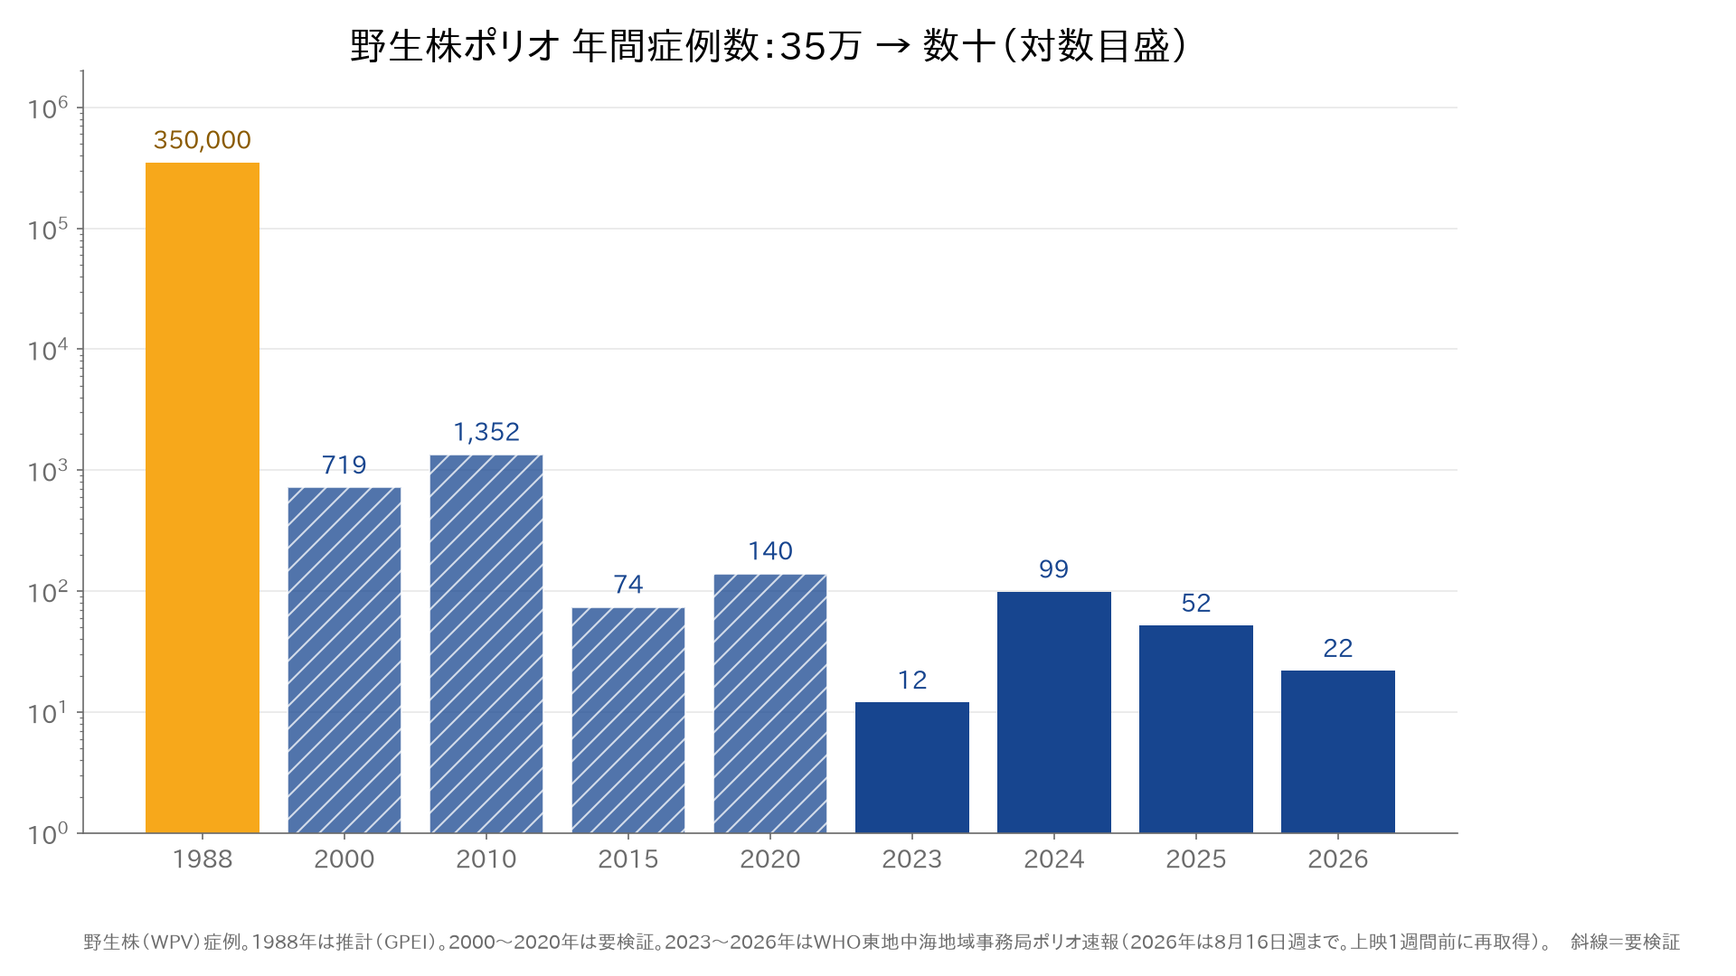
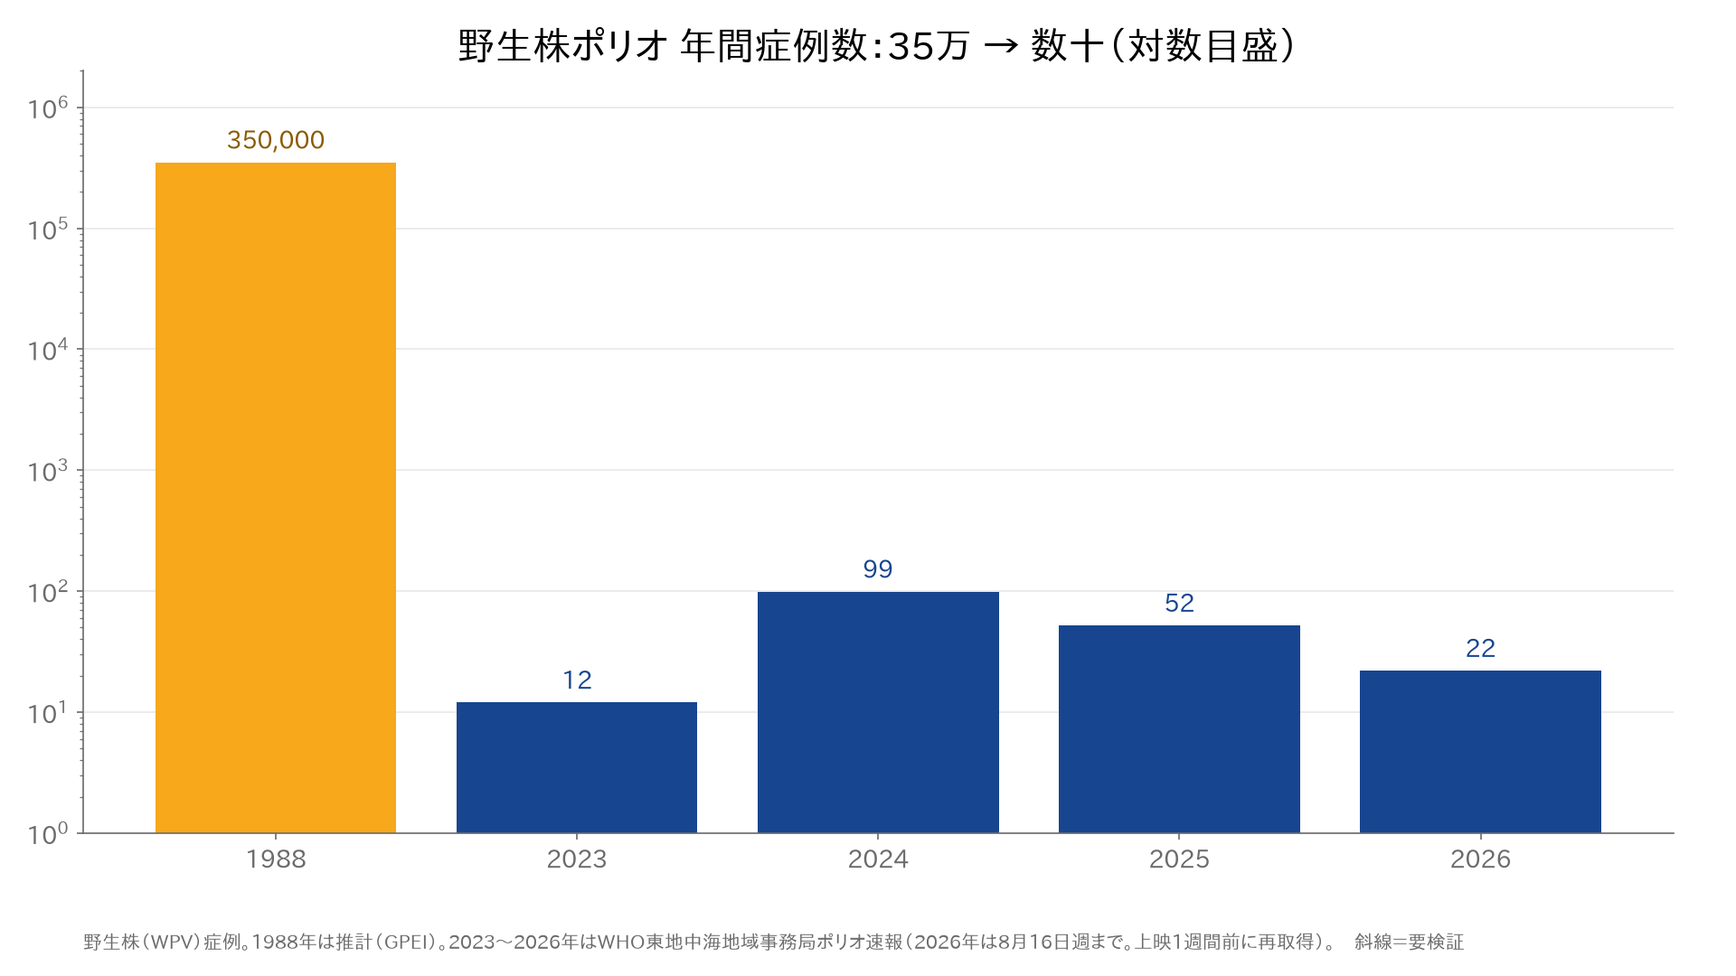
docs(rotary-video): consolidate to 10 chapters and revise narration (instruction 2/2)
- 04: merge foundation+polio (ch6) and membership+Japan-now (ch9); apply confirmed
  figures; remove unverified numbers; add insertion slot for own club figures
- 03: new chapter table, cut priorities, viewing/quiz policy, no world club count on screen
- data.json: drop unverified 2025-02 point; polio series to 5 verified points; regenerate 01a/02
- README: current state and next steps

Claude-Session: https://claude.ai/code/session_016pwfvYZVRoTvcFcvXw8fDn

diff --git a/rotary-video/04_ナレーション台本.md b/rotary-video/04_ナレーション台本.md
@@ -5,11 +5,11 @@
 
 ---
 
-## 0. オープニング（0:45）
+## 0. オープニング（0:40）
 
-【画面】黒→ロイヤルブルー。数字「1,200,000」→「45,000」→「4」
+【画面】黒→ロイヤルブルー。数字「1,200,000」→「4」
 
-いま、世界には**およそ120万人**のロータリアンがいます。クラブの数は**4万5千**を超えました。
+いま、世界には**およそ120万人**のロータリアンがいます。
 けれど、その始まりは、たった**4人**でした。
 今日は、私たちがよく知っているはずのロータリーを、「数字」で読み直してみます。
 入会したばかりの方には全体像を。何十年もロータリーと歩んでこられた方には、「それは知らなかった」をひとつでも。
@@ -65,7 +65,7 @@
 
 【画面】日本語の四つのテスト
 
-この日本語訳、誰が作ったかご存じでしょうか。**1954年**、全国のクラブに公募をかけ、**70数件**の応募がありました。当選したのは東京クラブの本田さんの訳（⚠氏名は「本田親男」「本田英雄」の2説あり要確認）。「四つのテスト」という標題は、当時RI理事だった手島知健さんが、応募で最も多かった言い方を採ったものです。いま100以上の言語に訳されています。
+この日本語訳、誰が作ったかご存じでしょうか。**1954年**、ロータリー創立50周年の記念事業として全国のクラブに公募をかけ、**70数件**の応募がありました。当選したのは東京クラブの**本田親男**さんの訳です。「四つのテスト」という標題は、当時のRI理事が、応募で最も多かった言い方を採ったものです。いま100以上の言語に訳されています。
 
 ---
 
@@ -102,40 +102,35 @@
 
 ---
 
-## 6. 26ドル50セント（1:00）
+## 6. 26ドル50セントから30億人へ（2:00）
 
 【画面】card_04「$26.50」
 
-**1917年**、アトランタの国際大会。会長アーチ・クランフが「世界のために善を行う基金を」と呼びかけました。最初の寄付はカンザスシティ・クラブからの**26ドル50セント**。
-財団が正式に名前を持ったのは1928年。最初の助成は肢体不自由児の団体への**500ドル**でした。
+**1917年**、アトランタの国際大会で、会長アーチ・クランフが「世界のために善を行う基金を」と呼びかけました。最初の寄付はカンザスシティ・クラブからの**26ドル50セント**。最初の助成は、肢体不自由児の団体への**500ドル**でした。
 1947年にポール・ハリスが亡くなると、追悼の寄付が**200万ドル**集まり、それが最初の奨学制度、18人を7か国へ送る大学院奨学金になります。
 
-【画面】「2024-25年度 5億6,900万ドル超」「恒久基金 20億ドル達成」
+【画面】「2024-25年度 5億6,900万ドル超」
 
-それから百年余り。**2024-25年度の寄付は5億6,900万ドルを超え**、目標を7,000万ドル上回りました。2017年に掲げた「2025年までに恒久基金20億2,500万ドル」も、**期限の6日前**に達成されています。
-
----
-
-## 7. 35万から数十へ（1:30）
+それが2024-25年度には、1年で**5億6,900万ドル**を超える寄付になっています。この基金がいちばん大きく使われてきた相手が、ポリオです。
 
 【画面】card_07「99.9%」→ 02_polio_cases_log
 
-**1979年**、フィリピン。ロータリーは**600万人**の子どもにポリオワクチンを届ける5か年事業に、**76万ドル**を投じました。これが手応えになり、**1985年**、「ポリオプラス」を開始。目標は1億2,000万ドル。3年で集まったのは**2億4,700万ドル**、目標の2倍でした。
+**1979年**、フィリピン。ロータリーは600万人の子どもにワクチンを届ける5か年事業に**76万ドル**を投じました。手応えを得て、**1985年**、「ポリオプラス」を開始。目標は1億2,000万ドル。3年で集まったのは**2億4,700万ドル**、目標の2倍でした。
 **1988年**、WHO・ユニセフ・CDCとともに世界ポリオ根絶推進計画が立ち上がります。この年、ポリオは**125か国で年間35万件**。
-それが、いまは**2か国、年間数十件**。**99.9%**の減少です。（⚠2024年は99件、2025年は約50件と報じられています。最新値は確認のこと）
+それが2024年は99件、2025年は**52件**、2026年はここまでで**22件**。残るのはアフガニスタンとパキスタンの**2か国**。**99.9%**の減少です。
 
-【画面】「日本 1960年 5,606人」「1980年 最後の患者」
+【画面】「日本 1960年の流行」「1980年 最後の患者」
 
-日本も他人事ではありませんでした。**1960年**、北海道や九州を中心に流行し、患者は**5,600人**を超えた（⚠）。母親たちの声に押されて、翌年ソ連から生ワクチンを緊急輸入。日本国内で野生株の患者が出たのは**1980年**が最後です。
+日本も他人事ではありませんでした。**1960年**、北海道や九州を中心に大流行し、母親たちの声に押されて、翌年ソ連から生ワクチンを緊急輸入しています。国内で野生株の患者が出たのは**1980年**が最後です。
 
 【画面】「ロータリー累計 29億ドル超」「ゲイツ財団 2:1」
 
-ロータリーの累計拠出は**29億ドル超**、122か国で**30億人**の子どもに接種しました。ゲイツ財団は、ロータリーが集めた1ドルに2ドルを上乗せしています。年間で最大**1億5,000万ドル**。この約束は2025年6月にさらに**3年延長**されました。
-ただし正直に言えば、根絶の目標年は**2027年末**に延びました。「あと少し」が一番長い。だから今も続けています。
+ロータリーの累計拠出は**29億ドル超**、122か国で**30億人**の子どもに接種しました。ゲイツ財団は、ロータリーが集めた1ドルに2ドルを上乗せし、この約束は2025年6月にさらに**3年延長**されました。
+ただし正直に言えば、根絶の目標年は**2027年末**に延びています。「あと少し」が一番長い。だから今も続けています。
 
 ---
 
-## 8. 日本が世界を動かした年（1:30）
+## 7. 日本が世界を動かした年（1:30）
 
 【画面】card「23,366」→ 1961年東京大会
 
@@ -150,26 +145,12 @@
 【画面】card_10「24,830」→ 米山奨学
 
 そして日本が世界に誇る事業、米山記念奨学会。**1952年**に東京クラブが米山梅吉の追悼事業として始め、第1号はタイから来た**ソムチャード**さん、東京大学で養蚕学を学び、帰国してタイシルクの増産に尽くしました。
-累計**24,830人・134の国と地域**（2025年7月）。年間**964人**を採用する、日本最大の民間奨学事業です。元奨学生からの寄付も累計**1億3,200万円**を超えました。受けた側が、支える側に回っています。
-『ロータリーの友』は1953年1月創刊、定価50円、**3,300部**。いまは**84,200部**（⚠時点要確認）です。
+累計**24,830人・134の国と地域**（2025年7月現在）。年間**約950人**を採用する、日本最大の民間奨学事業です。元奨学生からの寄付も累計**1億3,200万円**を超えました。受けた側が、支える側に回っています。
+『ロータリーの友』は1953年1月創刊、定価50円、**3,300部**から始まりました。
 
 ---
 
-## 9. 13万から8万へ（1:00）
-
-【画面】01b_japan_members_long → 01a → card_08「8.3%」
-
-耳の痛い数字も出します。日本の会員数は、1990年代半ばに**約13万人**でピークを迎えたとされ（⚠要確認）、2014年12月に**88,328人**、2026年5月には**83,297人**。クラブ数は2,287から**2,174**へ。
-2003年からの10年間で日本は**21%減**、同じ期間にインドは**38%増**。会員数の順位で、日本はインドに抜かれました。
-
-【画面】03_members_by_country
-
-もう一つ。世界の女性会員比率は約27%（⚠）。日本は**8.3%**（⚠2025年9月・記事による）。
-数字は責めるためのものではありません。次の章で、世界と日本が何をしようとしているかを見ます。
-
----
-
-## 10. 世界のいま（2:00）
+## 8. 世界のいま（2023〜26）（2:00）
 
 【画面】行動計画の4本柱
 
@@ -195,22 +176,37 @@
 
 ---
 
-## 11. 日本のいま（1:00）
+## 9. 8.3%と27.1%（1:30）
+
+【画面】01a_japan_members → card_08「8.3%」
+
+耳の痛い数字も出します。日本の会員数は2014年12月に**88,328人**、2026年5月には**83,297人**。クラブ数は2,287から**2,174**へ。コロナ禍の数年は、年におよそ2,000人のペースで減りました。
+
+【画面】「8.3%」「27.1%」
+
+女性会員の比率は、日本**8.3%**、世界平均は**27.1%**（2025年9月現在）。ここで、RI日本事務局が示している見方をひとつ紹介します。もし日本の女性会員が世界平均に近い25%になれば、日本の会員数は**10万人**を超える。減った分を、まだ入っていない人で取り戻せるという計算です。
 
 【画面】衛星クラブの例
 
-日本でも動きがあります。藤沢南クラブは45周年を前に**16名**で衛星クラブを作り、多賀城クラブは2025年8月に**23名**の衛星クラブを発足させました。小さく始めて、育てる。
-米山奨学は年**964人**。日本からはロータリー財団管理委員に三木明さん（姫路）、RI理事にも日本人が就いています（⚠2026-28年度の氏名は要確認）。
-来年の分担金、女性比率、クラブの形。世界で起きている変化は、そのまま私たちのクラブの議題です。
+実際に動いているクラブがあります。藤沢南クラブは45周年を前に、退会した元会員も呼び戻して**16名**で衛星クラブを作りました。新しいクラブに必要な創立会員の数も、20名から**15名**に緩和されています。
+
+【画面】2人の日本人RI理事
+
+2026-28年度のRI理事には、日本から**2人**が同時に就きました。足利東クラブの**中谷研一**さん、大阪西南クラブの**四宮孝郎**さん。同じ年度に日本から2人は異例です。
+
+【画面】自クラブ・地区の数字
+
+（★差し込み欄★ ここに自クラブの創立年・現在の会員数、所属地区の会員数を1〜2文で入れる。例:「私たちの第○○地区は2026年7月1日現在○○名。当クラブは○○年創立、○○名です。」）
+世界で起きている変化は、そのまま私たちのクラブの議題です。
 
 ---
 
-## 12. エンディング（0:45）
+## 10. エンディング（0:45）
 
-【画面】05_timeline → 「4 → 1,200,000」
+【画面】05_timeline → 「4 → 1,200,000 → 1,250,000」
 
 1905年の4人から、120万人へ。1920年の1クラブから、2,174クラブへ。
-数字は、先輩たちが積み上げた結果であると同時に、私たちがこれから動かすものでもあります。
+国際ロータリーは2023年、創立125周年にあたる**2030年**までに会員を**125万人**にする目標を決めました。その一人を、誰が誘うのか。
 女性比率8%。会員数8万。ポリオ、あと2か国。
 **次に変える数字を、私たちで決めませんか。**
 「Create Lasting Impact」。ご清聴ありがとうございました。
@@ -218,5 +214,6 @@
 ---
 
 ## 読み上げ前のチェック
-- ⚠の付いた数字（本田氏の氏名、ポリオ最新値、1960年患者数、13万人ピーク、ロータリーの友部数、女性比率、日本人理事）を原本で確認したか。
-- 自クラブの数字（創立年・会員数・衛星クラブの有無）を第11章に差し込むと、卓話としての締まりが良くなる。
+- 第9章の★差し込み欄★を自クラブ・地区の数字で埋めたか。
+- 上映1週間前に再確認する項目: ①2026年の野生株ポリオ症例数（WHO東地中海地域事務局の速報）②日本の会員数・クラブ数の最新値（RI日本事務局）③RI理事2名の在任（rotary.org 理事会ページ）
+- 台本内に⚠が残っていないか（残っていればその数字は読まない）。

diff --git a/rotary-video/03_動画構成案.md b/rotary-video/03_動画構成案.md
@@ -7,31 +7,31 @@
 - **対象**: 在籍数十年のベテランから入会数年の会員まで混在。→ 「知っている話」も**数字の意外性**で新鮮に見せる。
 - **骨格**: 各章を「ひとつの数字」で始める（`charts/card_XX.png`）。数字→その裏話→日本との接点、の順で語る。
 - **安全設計**: 断定して出す数字は `02_数値データ集.md` で ✅ のものだけ。⚠❓は「約」「〜とされています」を付けるか、確認が済むまで出さない。
+- 世界のクラブ数は画面に出さない（ロータリークラブとローターアクトクラブの合計値のため）。
 - **終盤2章は「いま」**: 2023〜2026年の世界と日本の方針を、制度変更・お金・人事の3点で具体的に。
-- **参加感**: 章の切れ目に「クイズ」を1問はさむ（`05_クイズと深掘りネタ.md`）。上映を止めて会場に投げてもよい。
+- **参加感**: 動画は止めずに通しで上映し、クイズは上映後の15分で行う。
 
 ## 章立てと尺
 
-| # | 章タイトル（画面見出し） | 冒頭の数字 | 尺 | 主な内容 | 使う素材 |
+| 新 | 旧 | 章タイトル | 尺 | 冒頭の数字 | 使う素材 |
 |---|---|---|---|---|---|
-| 0 | オープニング | 120万 → 4 | 0:45 | 「世界120万人・45,000クラブ。始まりは4人」 | card_01, 04_world_clubs_log |
-| 1 | 4人と711号室 | 4 / 711 | 1:00 | 1905年2月23日、ユニティ・ビル711号室。4人の職業。「ロータリー」の由来（持ち回り）。5人目ラグルスが始めた「歌う例会」。1907年、最初の奉仕は公衆トイレ | card_01, card_02 |
-| 2 | 24と6、そしてキー溝 | 24 / 6 | 1:00 | 1905年は荷馬車の車輪（13本）。1919〜21年に24歯6本の歯車へ。技師の「これでは動かない」でキー溝追加。2013年の新ロゴ | card_03 |
-| 3 | 言葉は変わる | 1932 | 1:30 | 標語の変遷（He→They→One）。四つのテスト＝倒産寸前の会社の再建策（負債40万ドル→配当100万ドル超）。日本語訳は1954年の公募（70数件） | 四つのテスト画像（各クラブで所有の掲示物を撮影） |
-| 4 | 855番目のクラブ | 855 | 1:30 | 1918年ダラスで米山梅吉が福島喜三次と出会う。1920年10月20日銀行倶楽部で創立総会、1921年4月1日承認。米山の「サービス第一、自己第二」 | card_05, 05_timeline |
-| 5 | 48から7へ | 48 → 7 | 1:30 | 1935年ポール・ハリス来日と月桂樹。1940年48クラブで脱退。「水曜会」「金曜会」。1949年3月、7クラブで復帰、3つの条件。旧番号855で再登録 | card_06 |
-| 6 | 26ドル50セント | $26.50 | 1:00 | 1917年アトランタ、クランフの構想と最初の寄付。1947年ハリス追悼200万ドルで奨学制度。2024-25年度は5億6,900万ドル超、恒久基金20億ドル達成 | card_04 |
-| 7 | 35万から数十へ | 99.9% | 1:30 | 1979年フィリピン600万人。1985年ポリオプラス、目標1.2億→2.47億ドル。1988年35万件→2025年数十件。日本自身の1960年流行と1980年最後の患者。ゲイツ財団2:1 | card_07, 02_polio_cases_log |
-| 8 | 日本が世界を動かした年 | 23,366 / 45,381 | 1:30 | 1961年東京（アジア初・天皇陛下開会の辞）、1978年東京（3-H発表）、2004年大阪（史上最多）。3人の日本人RI会長。米山奨学：第1号は1954年タイからの養蚕学の学生→累計24,830人・134か国。ロータリーの友3,300部→84,200部 | card_10 |
-| 9 | 13万から8万へ | 8.3% | 1:00 | 日本の会員数の長期減少（ピークは要検証）。2014年88,328→2026年83,297。女性比率8.3%（世界約27%）。インドの台頭 | card_08, 01a/01b, 03_members_by_country |
-| 10 | 世界のいま（2023〜26） | $82 → $93 | 2:00 | ①行動計画4本柱 ②「テーマ」廃止→「メッセージ」（2023年10月決定、2025-26〜） ③2年連続の会長エレクト辞任と Arezzo／Babalola ④2025年規定審議会：分担金$82→$93、赤字予測$4,200万 ⑤地域化パイロット2028年まで延長 ⑥ポリオ根絶目標2027年末へ、ゲイツ財団3年延長 | card_09 |
-| 11 | 日本のいま | 24,830 | 1:00 | 衛星クラブの実例（16名・23名）、小規模クラブ認可、米山964名/年、日本出身の財団管理委員・RI理事、2026年台北大会 | — |
-| 12 | エンディング | 2026-27 | 0:45 | 「Create Lasting Impact」。4人→120万人。次に変える数字は何か（女性比率・会員数・ポリオ0） | 05_timeline |
+| 0 | 0 | オープニング | 0:40 | 120万 → 4 | card_01, 04_world_clubs_log |
+| 1 | 1 | 4人と711号室 | 1:00 | 4 / 711 | card_01, card_02 |
+| 2 | 2 | 24と6、そしてキー溝 | 1:00 | 24 / 6 | card_03 |
+| 3 | 3 | 言葉は変わる | 1:30 | 1932 | 四つのテスト画像（各クラブで所有の掲示物を撮影） |
+| 4 | 4 | 855番目のクラブ | 1:30 | 855 | card_05, 05_timeline |
+| 5 | 5 | 48から7へ | 1:30 | 48 → 7 | card_06 |
+| 6 | 6+7 | 26ドル50セントから30億人へ | 2:00 | $26.50 → 99.9% | card_04, card_07, 02_polio_cases_log |
+| 7 | 8 | 日本が世界を動かした年 | 1:30 | 23,366 / 45,381 | card_10 |
+| 8 | 10 | 世界のいま（2023〜26） | 2:00 | $82 → $93 | card_09 |
+| 9 | 9+11 | 8.3%と27.1% | 1:30 | 8.3% / 27.1% | card_08, 01a, 03_members_by_country |
+| 10 | 12 | エンディング | 0:45 | 4 → 125万 | 05_timeline |
 
 合計 約15分
 
 ## 画面設計のルール
 
+- `charts/01b_japan_members_long.png` は動画では使わない（確認済みの点のみで 01a と同内容のため）。
 - 背景色はロータリーのロイヤルブルー（PMS 286C ≒ #17458F）、強調はゴールド（PMS 130C ≒ #F7A81B）。図表もこの2色で統一済み。
 - 数字カードは3秒静止→ナレーション開始。数字は必ず単位と年（時点）を添える。
 - 出典は画面下部に小さく（例:「出典: rotary.org／RI日本事務局」）。**出典表示は信頼の担保であり、ベテラン会員ほど見る。**
@@ -48,5 +48,5 @@
 
 ## 削る優先順位（時間が足りないとき）
 1. 第2章（徽章）→ クイズに転用
-2. 第6章（財団）→ 第7章に吸収
-3. 第11章（日本のいま）→ 口頭補足へ
+2. 第9章の衛星クラブの段落
+3. 第6章の1979年フィリピンの段落

diff --git a/rotary-video/README.md b/rotary-video/README.md
@@ -6,9 +6,9 @@
 
 - **案件**: 所属ロータリークラブの卓話で上映する「ロータリーの変遷」動画の、調査と素材づくり。
 - **狙い**: 在籍数十年の会員にも「へえ」と言わせる。歴史の年表だけでなく**数値**と**深掘りネタ**、そして**直近（2023〜2026年）の世界・日本の方針**を入れる。虚偽は絶対に入れない。
-- **今回の到達点（2026-09-02）**: 調査ノート645項目（出典付き）・数値データ集・動画構成案（12章・約15分）・ナレーション台本（約4,300字）・クイズと俗説チェック・直近方針まとめ・図表6点＋数字カード10枚を作成。
-- **次の一手**: ①台本の改訂（Chatからの次の指示待ち） → ②写真素材の許諾確認 → ③編集ソフトで組み立て。
-- **2026-09-05 更新**: Chatが原本で確認した数値を `02_数値データ集.md`・`scripts/data.json` に反映し、図表を再生成（指示1/2）。
+- **今回の到達点（2026-09-02）**: 調査ノート645項目（出典付き）・数値データ集・動画構成案（10章・約15分）・ナレーション台本（約4,300字）・クイズと俗説チェック・直近方針まとめ・図表6点＋数字カード10枚を作成。
+- **次の一手**: ①台本を音読して尺を測る → ②第9章の差し込み欄を埋める → ③写真素材の許諾確認 → ④編集ソフトで組み立て。
+- **2026-09-05 更新**: Chatが原本で確認した数値を反映（指示1/2）。**構成10章・台本改訂済み（2026-09-05、指示2/2）**。
 - **未完了**: GitHubへの push は組織にClaude GitHub Appが未インストールのため失敗（ローカルにコミット済み）。成果物はzipで直接受け渡し。
 
 ## ファイルの地図
